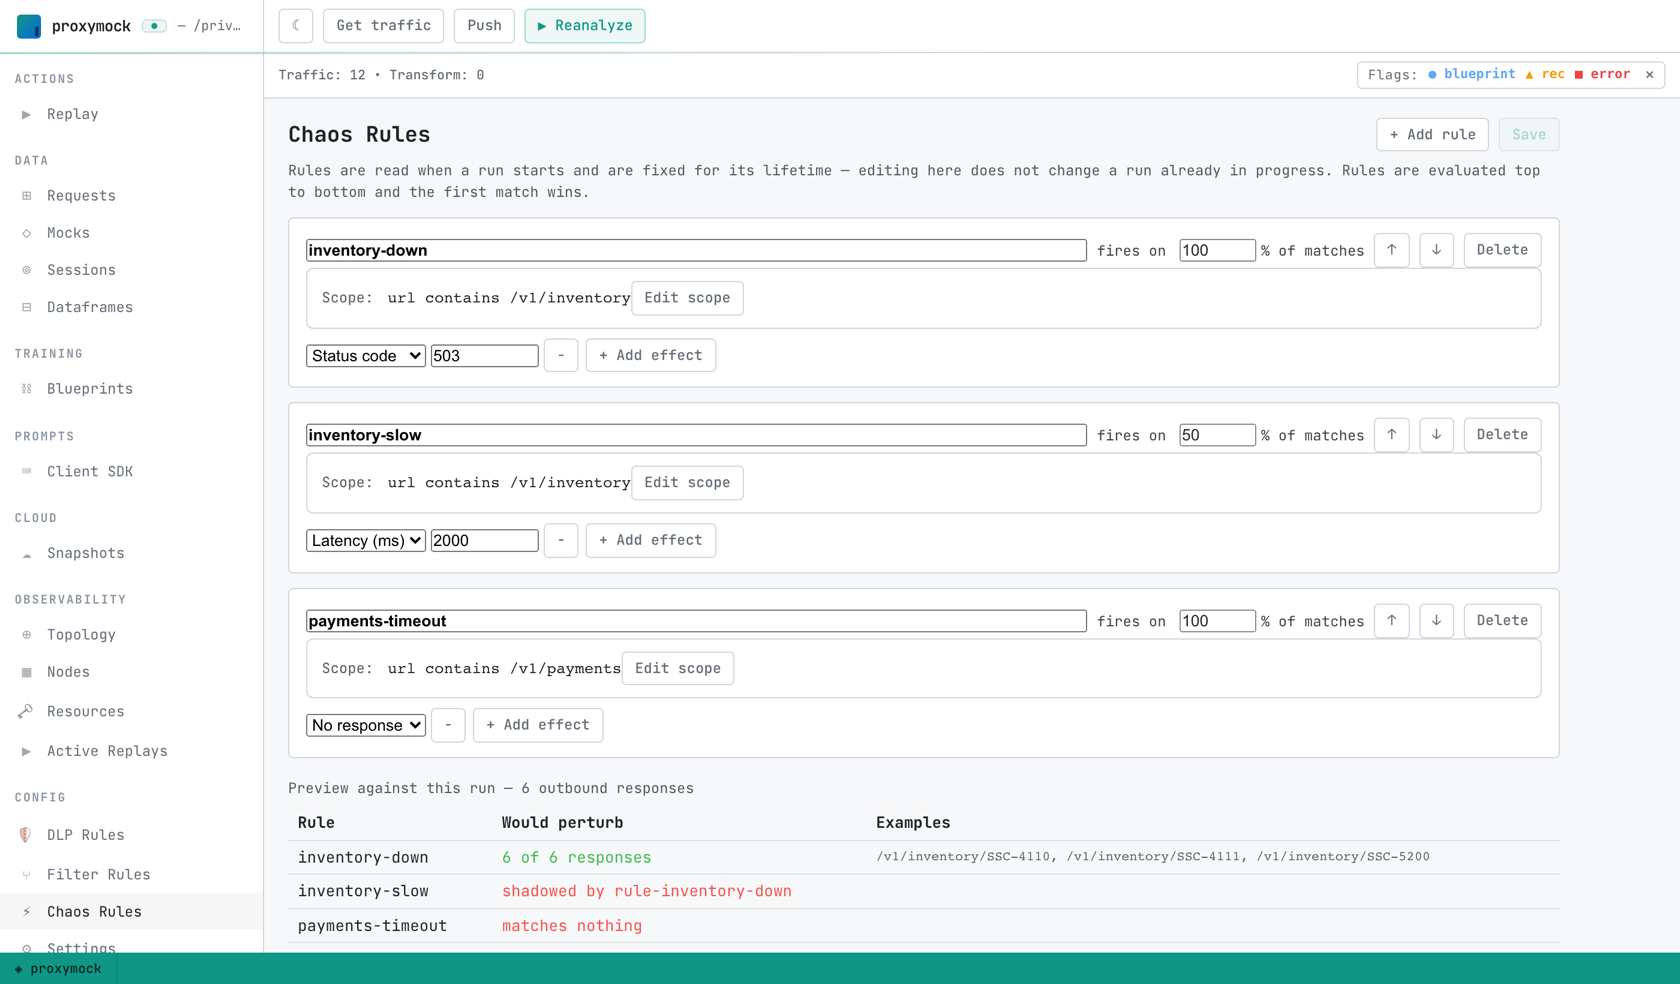
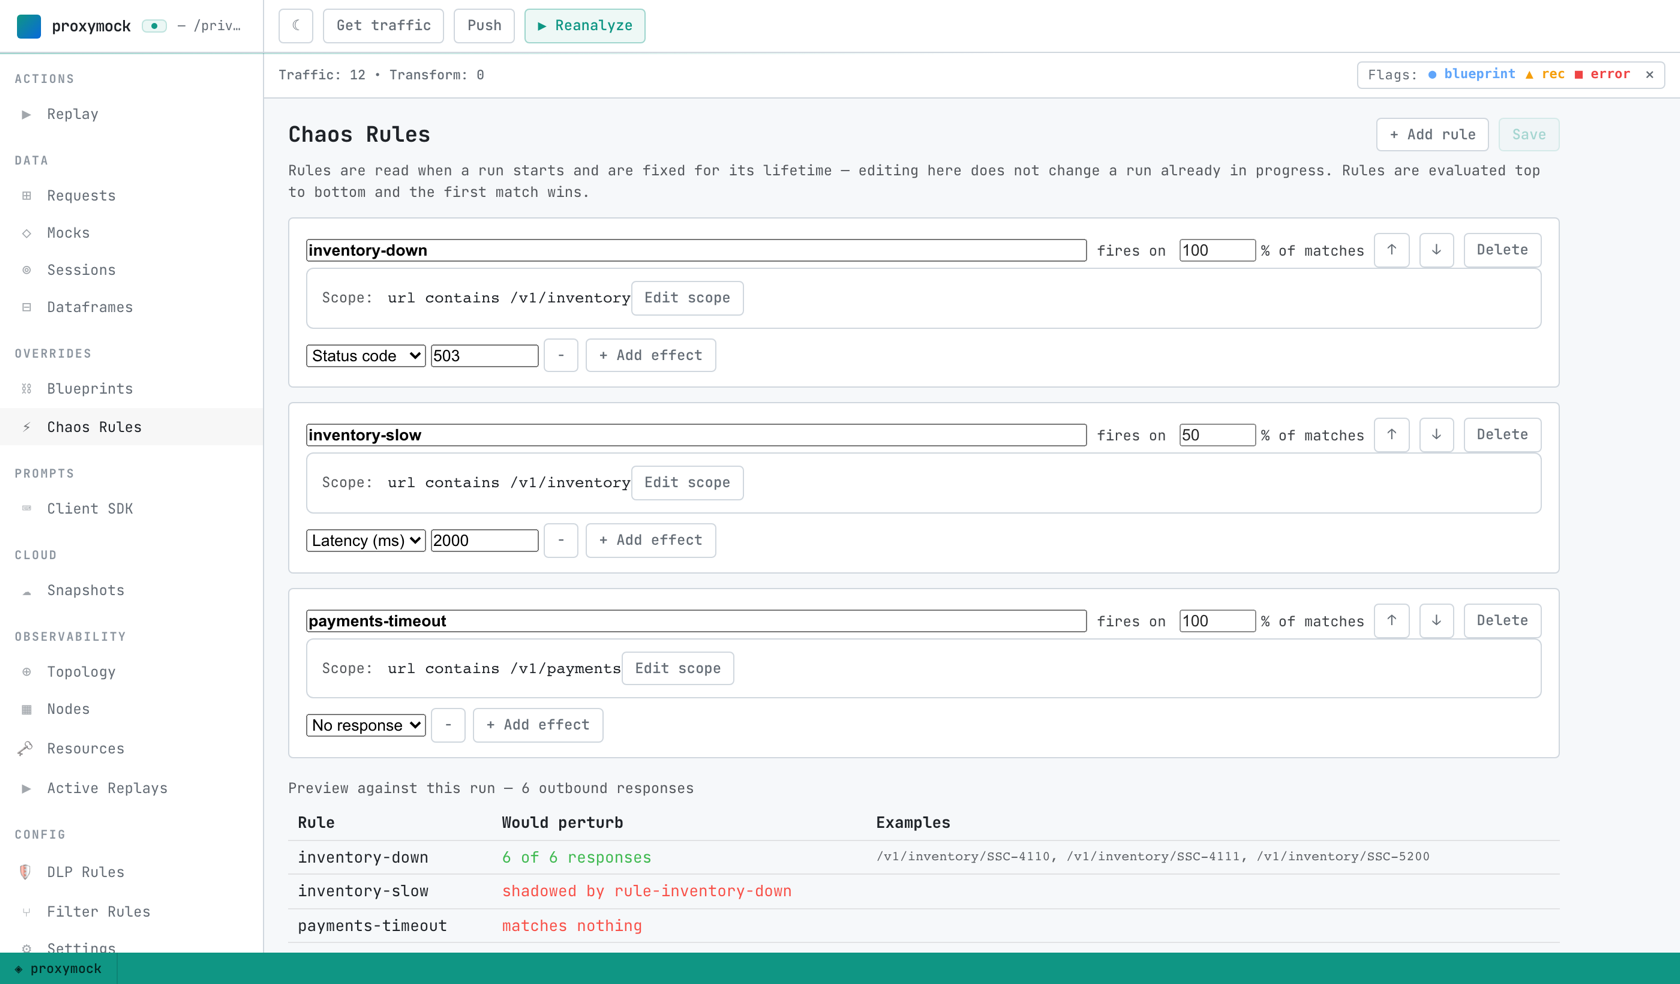
[S-12713] Follow the Chaos Rules move to Overrides
The reference said "under Config in the left sidebar" and the screenshot
showed the item there. S-12863 (!6818) moves it next to Blueprints under a
renamed Overrides section, because chaos rules save into the workspace while
everything else under Config persists to ~/.speedscale.

Re-shoots both screenshots against a build with the move applied, and states
the distinction the move encodes, since a reader looking at two sections of
rule editors has no other way to know which travels with the workspace and
which travels with the install.

Site builds clean.

diff --git a/docs/concepts/chaos.md b/docs/concepts/chaos.md
@@ -200,7 +200,11 @@ applied whether or not a rule fires, and a `latency` effect adjusts it rather th
 
 ## Building rules in proxymock-web
 
-**Chaos Rules**, under Config in the left sidebar, edits the rule set without hand-writing JSON.
+**Chaos Rules**, under **Overrides** in the left sidebar, edits the rule set without
+hand-writing JSON. It sits beside Blueprints because the two are the same kind of thing: a
+declaration saved into the workspace that changes what the next run does, without altering the
+recorded traffic. The rule editors under Config are machine-global by contrast, and travel with
+your install rather than your workspace.
 
 ![The Chaos Rules editor with three rules and the preview table beneath them](./chaos/rule-editor.png)
 
